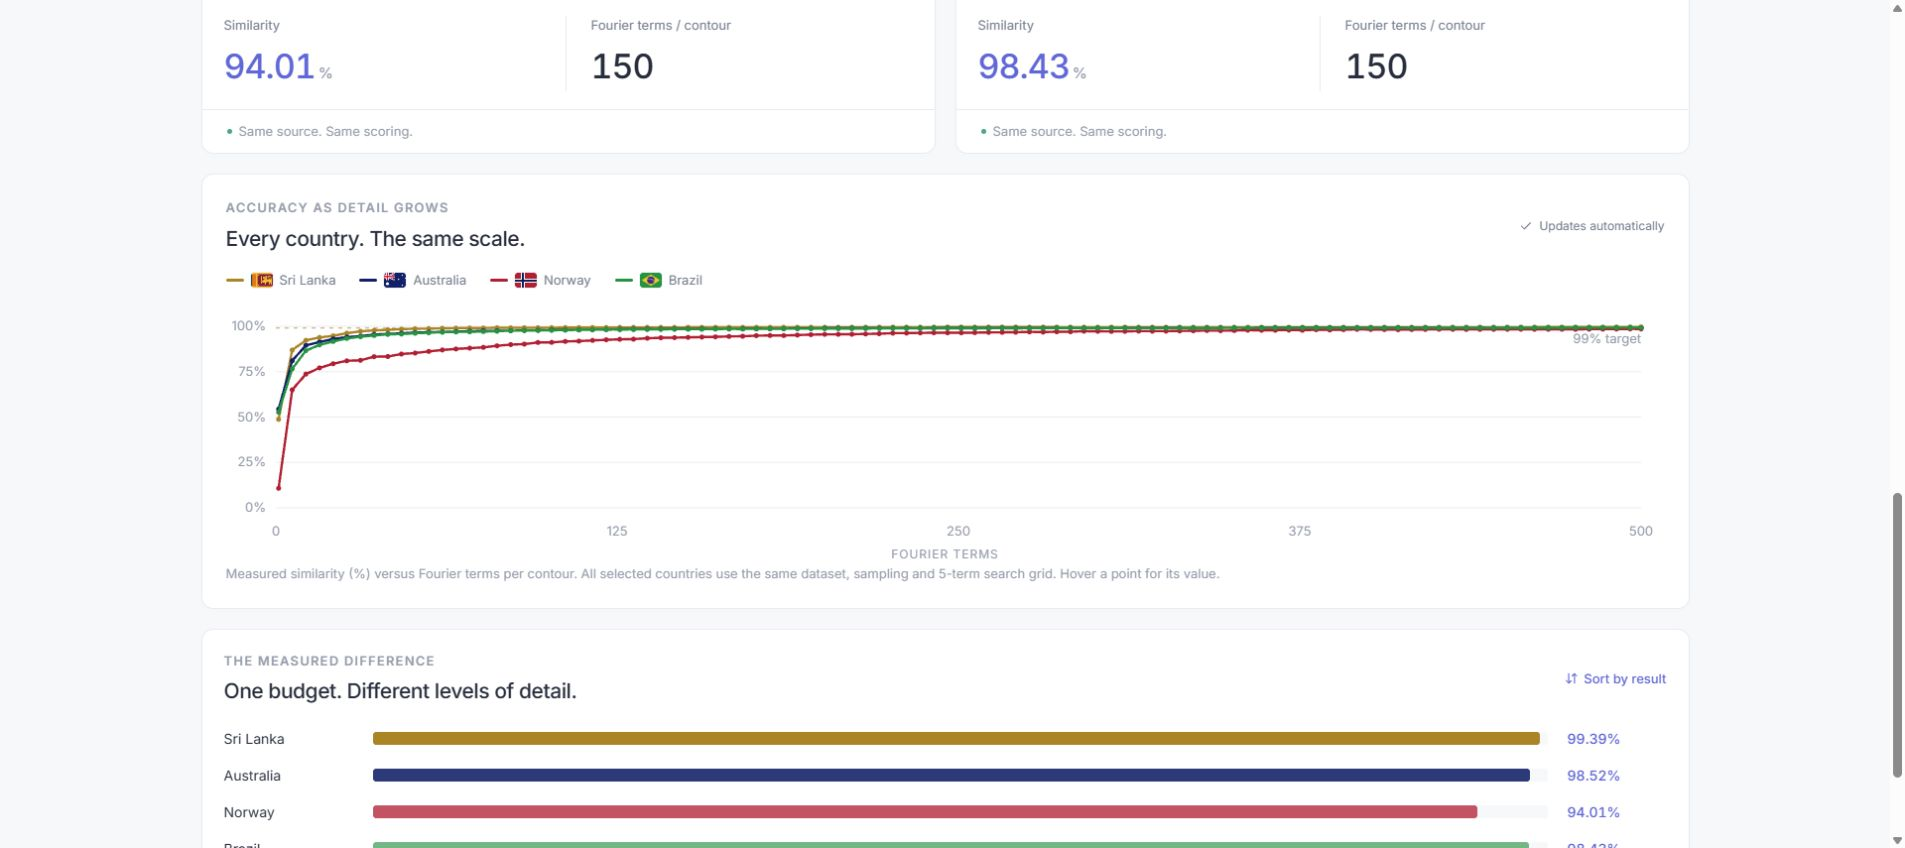
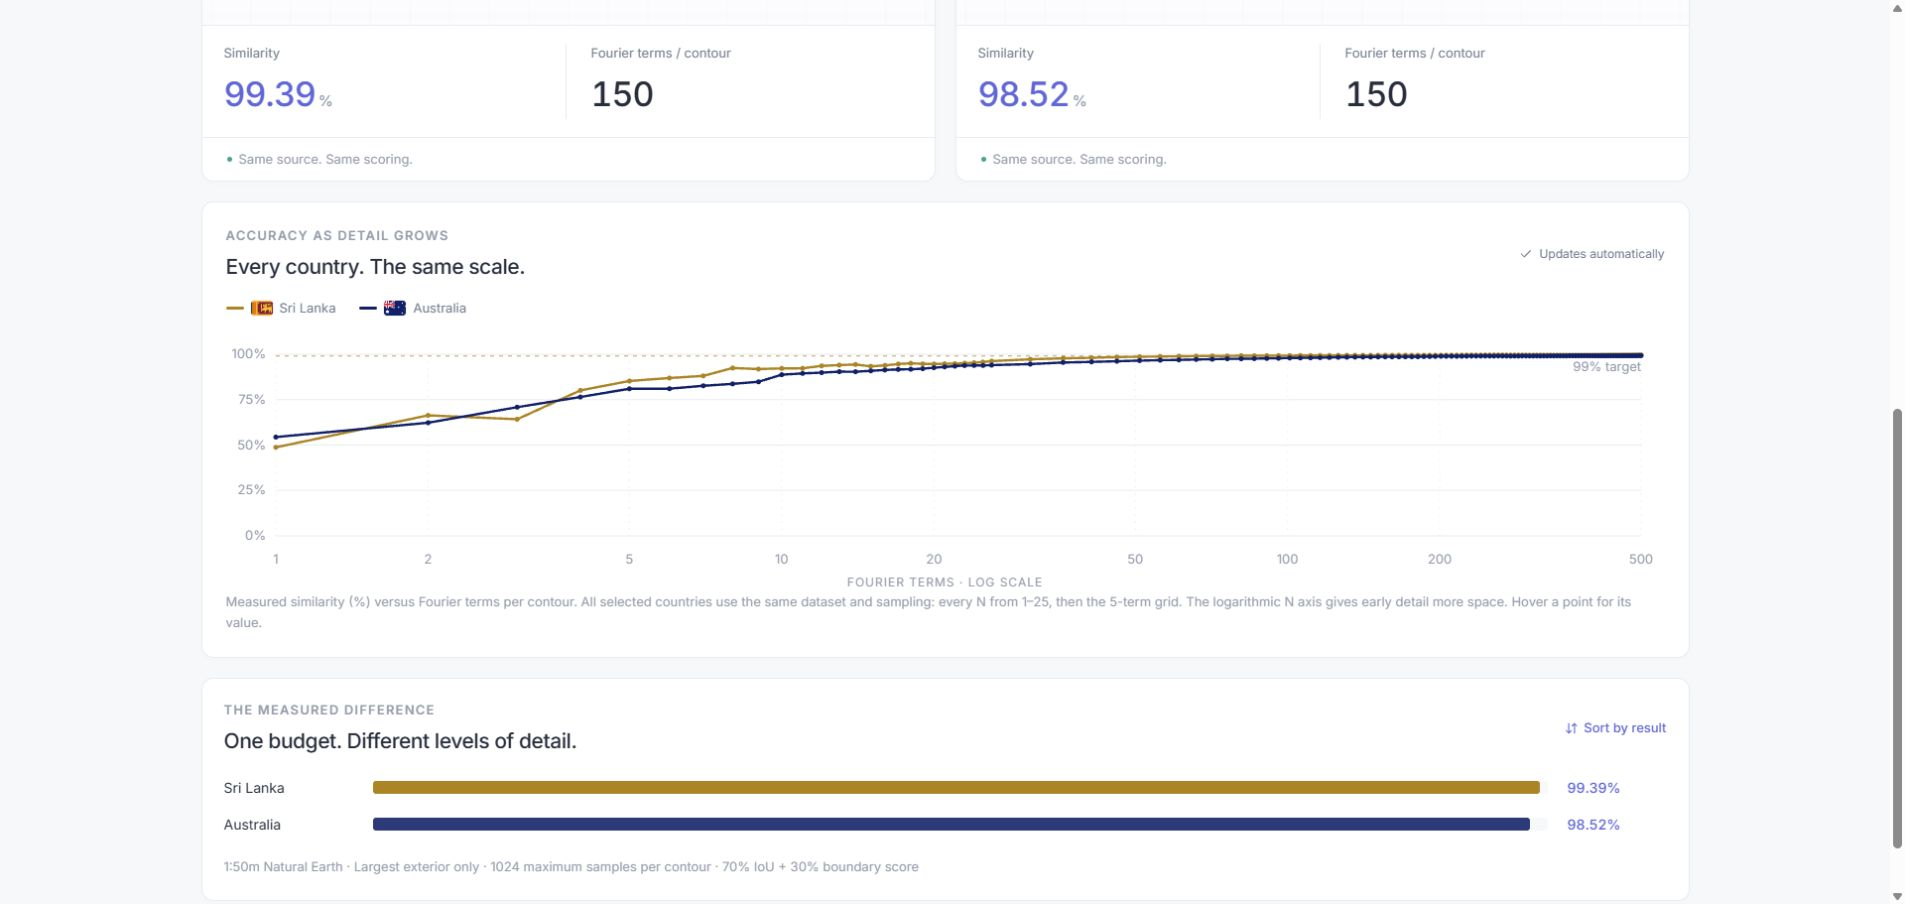
Reveal early Fourier variation with logarithmic axes and dense sampling

diff --git a/src/engine.test.ts b/src/engine.test.ts
@@ -4,6 +4,7 @@ import fs from "node:fs";
 import { constructionAt, constructionSequence } from "./construction";
 import { rankTermsFor99 } from "./rankingData";
 import { compareColors } from "./compareColors";
+import { termAxisPosition, termAxisTicks } from "./chartScale";
 import {
   coefficients,
   fft,
@@ -19,6 +20,40 @@ import {
 } from "./engine";
 const geometry = (id: string) =>
   JSON.parse(fs.readFileSync(`public/data/50m-${id}.json`, "utf8")) as Geometry;
+
+test("logarithmic term axis expands early detail without changing N values", () => {
+  assert.equal(termAxisPosition(1, 1000), 0);
+  assert.equal(termAxisPosition(1000, 1000), 1);
+  assert.ok(Math.abs(termAxisPosition(10, 1000) - 1 / 3) < 1e-12);
+  assert.ok(Math.abs(termAxisPosition(100, 1000) - 2 / 3) < 1e-12);
+  assert.ok(
+    termAxisPosition(10, 500) - termAxisPosition(1, 500) >
+      termAxisPosition(500, 500) - termAxisPosition(400, 500),
+  );
+  assert.equal(termAxisPosition(0, 500), 0);
+  assert.equal(termAxisPosition(1001, 500), 1);
+  assert.equal(termAxisPosition(1, 1), 0);
+});
+
+test("logarithmic term ticks retain endpoints and avoid label collisions", () => {
+  for (const limit of [1, 100, 250, 500, 1000])
+    for (const width of [186, 300, 700, 1400]) {
+      const ticks = termAxisTicks(limit, width);
+      assert.equal(ticks[0], 1);
+      assert.equal(ticks.at(-1), limit);
+      assert.equal(new Set(ticks).size, ticks.length);
+      assert.ok(
+        ticks.every((n) => Number.isInteger(n) && n >= 1 && n <= limit),
+      );
+      for (let i = 1; i < ticks.length; i++)
+        assert.ok(
+          (termAxisPosition(ticks[i], limit) -
+            termAxisPosition(ticks[i - 1], limit)) *
+            width >=
+            (String(ticks[i]).length + String(ticks[i - 1]).length) * 3.5 + 12,
+        );
+    }
+});
 
 test("comparison colours stay distinct when flags share their dominant colour", () => {
   for (const ids of [
@@ -230,6 +265,39 @@ test("unreachable target returns the actual best measured result within its budg
     analyze(model, result.best.terms).metrics.similarity,
   );
 });
+test("accuracy curves measure every early N and retain the later grid and cap", async () => {
+  const model = prepare(geometry("EGY"), 64);
+  for (const limit of [12, 34]) {
+    const result = await search(
+      model,
+      101,
+      limit,
+      10,
+      5000,
+      () => {},
+      () => false,
+      true,
+    );
+    const counts = result.curve.map((p) => p.terms);
+    assert.deepEqual(
+      counts.filter((n) => n <= 25),
+      Array.from({ length: Math.min(25, limit) }, (_, i) => i + 1),
+    );
+    assert.equal(counts.at(-1), limit);
+    assert.equal(new Set(counts).size, counts.length);
+    if (limit > 25)
+      assert.deepEqual(
+        counts.filter((n) => n > 25),
+        [31, 34],
+      );
+    for (const point of result.curve)
+      assert.equal(
+        point.similarity,
+        analyze(model, point.terms).metrics.similarity,
+      );
+  }
+});
+
 test("target search verifies first qualifying count on the entire tested grid", async () => {
   const model = prepare(geometry("EGY"), 128),
     result = await search(model, 90, 100, 2, 5000, () => {});

diff --git a/src/StudioAccuracy.tsx b/src/StudioAccuracy.tsx
@@ -18,7 +18,7 @@ export default function StudioAccuracy({
   current: number;
   searchCurve: CurvePoint[];
 }) {
-  const key = `forma-studio-curve-v1-${Object.values(config).join("-")}-${settings.cap}-${settings.step}`;
+  const key = `forma-studio-curve-v2-${Object.values(config).join("-")}-${settings.cap}-${settings.step}`;
   const [data, setData] = useState<{ key: string; points: CurvePoint[] }>(),
     [running, setRunning] = useState(false),
     [error, setError] = useState("");
@@ -31,12 +31,47 @@ export default function StudioAccuracy({
       const saved = JSON.parse(localStorage.getItem(key) || "null");
       const labKey = `forma-lab-v3-${config.resolution}-${config.samples}-${config.mode}-${settings.cap}-${settings.step}`;
       const labRows = JSON.parse(localStorage.getItem(labKey) || "[]");
-      const points =
+      const points: CurvePoint[] | undefined =
         saved ??
+        JSON.parse(
+          localStorage.getItem(key.replace("-v2-", "-v1-")) || "null",
+        ) ??
         labRows.find(
           (r: { id: string; curve: CurvePoint[] }) => r.id === config.country,
         )?.curve;
       setData(points ? { key, points } : undefined);
+      if (points?.length && !saved) {
+        const v = ++version.current;
+        setRunning(true);
+        const early = runSearch(
+          config,
+          101,
+          Math.min(25, settings.cap, settings.samples),
+          1,
+          settings.maxTime * 1000,
+          () => {},
+        );
+        job.current = early;
+        void early.promise
+          .then((result) => {
+            if (v !== version.current) return;
+            const merged = [
+              ...new Map(
+                [...points, ...result.curve].map((p) => [p.terms, p]),
+              ).values(),
+            ].sort((a, b) => a.terms - b.terms);
+            setData({ key, points: merged });
+            if (result.reason === "budget")
+              localStorage.setItem(key, JSON.stringify(merged));
+          })
+          .catch((e) => {
+            if (v === version.current)
+              setError(e instanceof Error ? e.message : String(e));
+          })
+          .finally(() => {
+            if (v === version.current) setRunning(false);
+          });
+      }
     } catch {
       setData(undefined);
     }
@@ -67,6 +102,8 @@ export default function StudioAccuracy({
           points.push(p.point);
           setData({ key, points: [...points] });
         },
+        false,
+        true,
       );
       const result = await job.current.promise;
       if (v !== version.current) return;
@@ -100,7 +137,7 @@ export default function StudioAccuracy({
         key={key}
         compact
         points={points}
-        max={settings.cap}
+        max={Math.min(settings.cap, settings.samples)}
         current={current}
         target={99}
       />

diff --git a/src/Chart.tsx b/src/Chart.tsx
@@ -1,5 +1,6 @@
 import { useEffect, useRef, useState } from "react";
 import type { CurvePoint } from "./engine";
+import { termAxisPosition, termAxisTicks } from "./chartScale";
 export default function Chart({
   points,
   target = 98,
@@ -35,11 +36,27 @@ export default function Chart({
     right = 24,
     top = 24,
     bottom = 38,
-    x = (n: number) => left + (n / max) * (w - left - right),
+    x = (n: number) => left + termAxisPosition(n, max) * (w - left - right),
     y = (n: number) => top + ((100 - n) / 100) * (h - top - bottom);
   return (
     <div className={`chart ${compact ? "compact-chart" : ""}`} ref={container}>
-      <svg viewBox={`0 0 ${w} ${h}`} role="img" aria-label={label}>
+      <svg
+        viewBox={`0 0 ${w} ${h}`}
+        role="img"
+        aria-label={`${label}. Logarithmic Fourier term axis, expanding early detail.`}
+      >
+        {termAxisTicks(max, w - left - right).map((n) => (
+          <line
+            key={`grid-${n}`}
+            x1={x(n)}
+            x2={x(n)}
+            y1={top}
+            y2={h - bottom}
+            stroke="var(--border)"
+            strokeDasharray="2 5"
+            opacity=".7"
+          />
+        ))}
         {(compact ? [0, 50, 100] : [0, 25, 50, 75, 100]).map((n) => (
           <g key={n}>
             <line
@@ -54,9 +71,9 @@ export default function Chart({
             </text>
           </g>
         ))}
-        {[0, 0.25, 0.5, 0.75, 1].map((p) => (
-          <text key={p} x={x(max * p)} y={h - 10} textAnchor="middle">
-            {Math.round(max * p)}
+        {termAxisTicks(max, w - left - right).map((n) => (
+          <text key={n} x={x(n)} y={h - 10} textAnchor="middle">
+            {n}
           </text>
         ))}
         <line
@@ -171,7 +188,7 @@ export default function Chart({
           <b>{hover.similarity.toFixed(2)}%</b>
         </div>
       )}
-      <span className="axis-label">FOURIER TERMS</span>
+      <span className="axis-label">FOURIER TERMS · LOG SCALE</span>
     </div>
   );
 }

diff --git a/src/chartScale.ts b/src/chartScale.ts
@@ -1,0 +1,28 @@
+/** A true logarithmic term axis: equal space for equal multiplicative changes in N. */
+export function termAxisPosition(terms: number, maximum: number) {
+  const limit = Math.max(1, maximum);
+  if (limit === 1) return 0;
+  return Math.log(Math.max(1, Math.min(limit, terms))) / Math.log(limit);
+}
+
+/** Keep readable 1–2–5 ticks, always retaining both endpoints on small charts. */
+export function termAxisTicks(maximum: number, width: number) {
+  const limit = Math.max(1, Math.floor(maximum));
+  if (limit === 1) return [1];
+  const candidates = new Set([1, limit]);
+  for (let power = 1; power <= limit; power *= 10) {
+    for (const factor of [1, 2, 5])
+      if (power * factor <= limit) candidates.add(power * factor);
+  }
+  const labels: number[] = [];
+  const fits = (a: number, b: number) =>
+    (termAxisPosition(b, limit) - termAxisPosition(a, limit)) * width >=
+    (String(a).length + String(b).length) * 3.5 + 12;
+  for (const tick of [...candidates].sort((a, b) => a - b)) {
+    if (tick === limit) {
+      while (labels.length > 1 && !fits(labels.at(-1)!, tick)) labels.pop();
+      labels.push(tick);
+    } else if (!labels.length || fits(labels.at(-1)!, tick)) labels.push(tick);
+  }
+  return labels;
+}

diff --git a/src/CompareAccuracy.tsx b/src/CompareAccuracy.tsx
@@ -58,6 +58,8 @@ export default function CompareAccuracy({
                 curves[id] = [...points];
                 setData({ key, curves: { ...curves } });
               },
+              false,
+              true,
             );
             jobs.push(job);
             const result = await job.promise;
@@ -132,13 +134,14 @@ export default function CompareAccuracy({
         points={[]}
         series={series}
         target={99}
-        max={settings.cap}
+        max={Math.min(settings.cap, settings.samples)}
         label="Measured similarity versus Fourier terms for all selected countries"
       />
       <p className="note">
         Measured similarity (%) versus Fourier terms per contour. All selected
-        countries use the same dataset, sampling and {settings.step}-term search
-        grid. Hover a point for its value.
+        countries use the same dataset and sampling: every N from 1–25, then the{" "}
+        {settings.step}-term grid. The logarithmic N axis gives early detail
+        more space. Hover a point for its value.
       </p>
       {error && (
         <p className="note" role="alert">

diff --git a/src/engine.ts b/src/engine.ts
@@ -377,15 +377,16 @@ export async function search(
     analysis: Analysis,
   ) => void,
   isCancelled = () => false,
+  denseEarly = false,
 ): Promise<SearchResult> {
   const start = performance.now(),
     curve: CurvePoint[] = [];
   let best: CurvePoint = { terms: 1, similarity: -1, iou: 0, mean: 0 },
     reason: SearchResult["reason"] = "budget";
-  const counts = [];
-  for (let n = 1; n <= limit; n += step) counts.push(n);
-  if (counts.at(-1) !== limit) counts.push(limit);
-  for (const terms of counts) {
+  const counts = new Set<number>([limit]);
+  for (let n = 1; n <= limit; n += step) counts.add(n);
+  if (denseEarly) for (let n = 1; n <= Math.min(25, limit); n++) counts.add(n);
+  for (const terms of [...counts].sort((a, b) => a - b)) {
     if (isCancelled()) {
       reason = "cancelled";
       break;

diff --git a/src/client.ts b/src/client.ts
@@ -111,11 +111,12 @@ export function runSearch(
   maxMs: number,
   progress: (p: Progress) => void,
   includePreview = false,
+  denseEarly = false,
 ) {
   return request<SearchResult>(
     "search",
     config,
-    { target, limit, step, maxMs, includePreview },
+    { target, limit, step, maxMs, includePreview, denseEarly },
     progress,
   );
 }

diff --git a/src/worker.ts b/src/worker.ts
@@ -59,6 +59,7 @@ self.onmessage = async ({ data }) => {
           });
         },
         () => cancelled.has(id),
+        data.denseEarly,
       );
       cancelled.delete(id);
       self.postMessage({ id, result });

diff --git a/README.md b/README.md
@@ -13,7 +13,7 @@
 - **Studio:** choose N or target similarity, watch eight construction levels by default, and explore a compact measured accuracy curve. Each level completes a loop; the final N keeps looping.
 - **Equation explorer:** click the N statistic for the actual Fourier equation, animated x(t)/y(t) graphs, and coefficients displayed to two decimal places. [Preview](docs/screenshots/equation.jpg).
 - **Difficulty Lab:** calculate remaining countries, watch real intermediate reconstructions, and explore an animated flag line chart of the first 20 by terms needed for 99% similarity. Results are cached locally.
-- **Compare:** two to four countries with synchronized playback and distinct flag-derived colours. Accuracy curves calculate automatically as countries are added, removed, or changed. [Curve preview](docs/screenshots/compare-curves.jpg).
+- **Compare:** two to four countries with synchronized playback and distinct flag-derived colours. Accuracy curves update automatically; logarithmic N axes and every N from 1–25 in Studio and Compare reveal early detail. [Curve preview](docs/screenshots/compare-curves.jpg).
 - **Export:** PNG, SVG, WebM, settings, coefficients, and measured CSV data. Shareable URLs and local presets included.
 
 ```sh

diff --git a/docs/MATHEMATICS.md b/docs/MATHEMATICS.md
@@ -32,6 +32,8 @@ Search evaluates increasing term counts on the configured grid, includes the ter
 
 “Not reached” describes the tested budget, not theoretical impossibility. A complete finite Fourier basis can reconstruct its own sampled contour.
 
+Studio and Compare accuracy curves use a logarithmic term axis starting at N = 1, so early changes have more space. These curve calculations additionally measure every integer N from 1–25 (within the term cap), then retain the configured search grid and final cap. Displayed percentages and the linear 0–100% similarity axis are unchanged.
+
 Difficulty Lab scans the configured grid up to its budget. Its score is:
 
 `80 × min(N95 / term cap, 1) + 20 × normalized spectral energy entropy`
